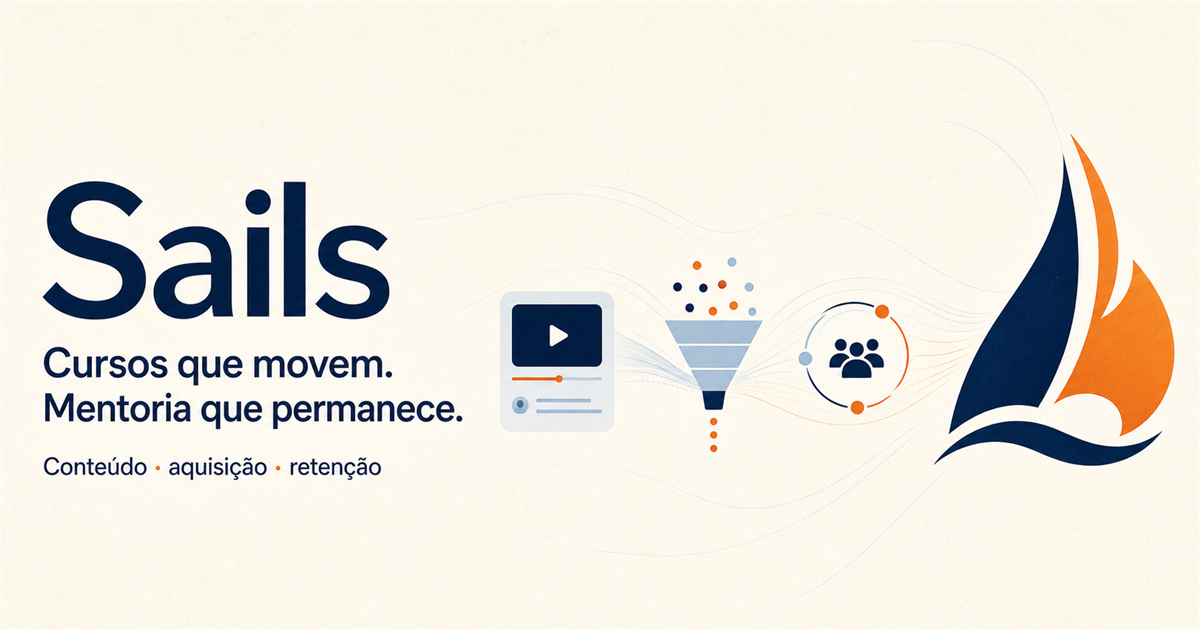
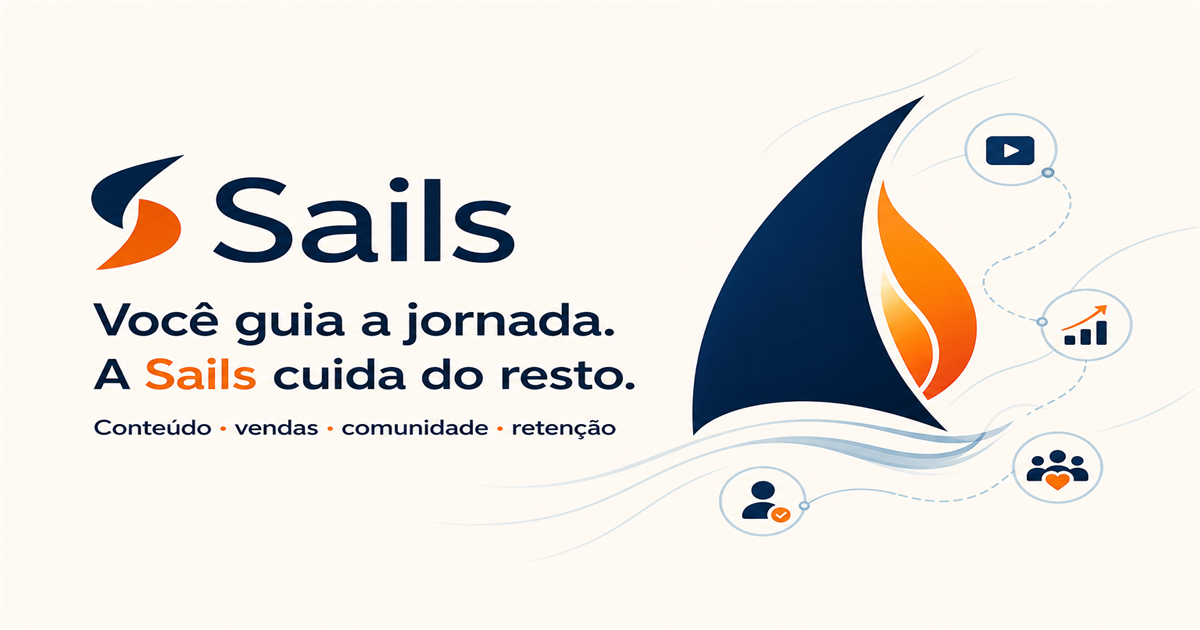
Prepare Sails go-live experience

Changed region(s): [[0.0308, 0.1508, 0.9867, 0.8746], [0.0308, 0.7238, 0.3392, 0.754]]

diff --git a/app/portal/page.tsx b/app/portal/page.tsx
@@ -5,8 +5,9 @@ import Link from "next/link";
 
 type Band = "parada" | "esfriando" | "alta" | "insuficiente";
 type RiskState = "open" | "monitoring" | "none";
-type View = "cockpit" | "students" | "detail" | "courses" | "course-builder" | "marketing";
+type View = "cockpit" | "students" | "detail" | "courses" | "course-builder" | "marketing" | "operations";
 type Theme = "light" | "dark";
+type OperationsMode = "sales" | "automations" | "community" | "golive";
 
 type LeadStage = "Novos" | "Conversa" | "Proposta" | "Fechado";
 type Lead = {
@@ -231,6 +232,7 @@ export default function Home() {
   const [studentPreview, setStudentPreview] = useState(false);
   const [marketingMode, setMarketingMode] = useState<"pipeline" | "leads">("pipeline");
   const [leadQuery, setLeadQuery] = useState("");
+  const [operationsMode, setOperationsMode] = useState<OperationsMode>("sales");
   const dialogRef = useRef<HTMLDivElement>(null);
   const closeRef = useRef<HTMLButtonElement>(null);
 
@@ -332,6 +334,7 @@ export default function Home() {
     setStudentPreview(false);
     setMarketingMode("pipeline");
     setLeadQuery("");
+    setOperationsMode("sales");
     setToast("Demonstração reiniciada.");
   }
 
@@ -378,6 +381,7 @@ export default function Home() {
           <button className={view === "students" || view === "detail" ? "nav-active" : ""} onClick={() => navigate("students")}><span aria-hidden="true">◎</span> Alunos <em>{openCases.length}</em></button>
           <button className={view === "courses" || view === "course-builder" ? "nav-active" : ""} onClick={() => navigate("courses")}><span aria-hidden="true">▷</span> Cursos</button>
           <button className={view === "marketing" ? "nav-active" : ""} onClick={() => navigate("marketing")}><span aria-hidden="true">◇</span> Marketing <em>{leads.filter((lead) => lead.stage === "Novos").length}</em></button>
+          <button className={view === "operations" ? "nav-active" : ""} onClick={() => navigate("operations")}><span aria-hidden="true">▦</span> Operação</button>
         </nav>
         <div className="sidebar-foot">
           <button className="theme-toggle" onClick={() => setTheme(theme === "light" ? "dark" : "light")} aria-label={theme === "light" ? "Ativar modo noturno" : "Ativar modo claro"}><span aria-hidden="true">{theme === "light" ? "☾" : "☀"}</span><span>{theme === "light" ? "Modo noturno" : "Modo claro"}</span></button>
@@ -523,7 +527,7 @@ export default function Home() {
               <section className="foundation-card">
                 <div><span className="section-kicker">Fundação de produto</span><h2>O básico que uma plataforma de cursos precisa ter</h2><p>A Sails mantém retenção como diferencial, mas agora organiza a base que sustenta a experiência.</p></div>
                 <ul>
-                  <li className="done">Vídeos, textos e materiais</li><li className="done">Módulos e aulas ordenáveis</li><li className="done">Quiz e entregas</li><li className="done">Liberação programada</li><li>Certificados</li><li>Comunidade e agenda</li><li>Checkout e assinaturas</li><li>Cupons e afiliados</li>
+                  <li className="done">Vídeos, textos e materiais</li><li className="done">Módulos e aulas ordenáveis</li><li className="done">Quiz e entregas</li><li className="done">Liberação programada</li><li className="done">Certificados</li><li className="done">Comunidade e agenda</li><li className="done">Checkout e assinaturas</li><li className="done">Cupons e afiliados</li>
                 </ul>
               </section>
             </section>
@@ -631,6 +635,62 @@ export default function Home() {
             </section>
           )}
 
+          {view === "operations" && (
+            <section className="page operations-page" aria-labelledby="operations-title">
+              <div className="page-heading operations-heading">
+                <div><p className="eyebrow">Sails · negócio conectado</p><h1 id="operations-title">Operação</h1><p>Venda, automatize a jornada e prepare a escola para crescer.</p></div>
+                <span className="launch-status"><i /> Pronto para piloto</span>
+              </div>
+
+              <div className="operations-tabs" role="tablist" aria-label="Áreas da operação">
+                {([['sales','Vendas'],['automations','Automações'],['community','Comunidade'],['golive','Go-live']] as const).map(([mode, label]) => <button key={mode} role="tab" aria-selected={operationsMode === mode} onClick={() => setOperationsMode(mode)}>{label}{mode === "golive" && <span>6</span>}</button>)}
+              </div>
+
+              {operationsMode === "sales" && <>
+                <div className="revenue-summary">
+                  <article><span>Receita no mês</span><strong>R$ 38.420</strong><small><b>↑ 18%</b> vs. mês anterior</small></article>
+                  <article><span>Receita recorrente</span><strong>R$ 12.870</strong><small>44 assinaturas ativas</small></article>
+                  <article><span>Ticket médio</span><strong>R$ 1.940</strong><small>19 vendas aprovadas</small></article>
+                  <article><span>Pagamentos em risco</span><strong>3</strong><small>R$ 1.287 a recuperar</small></article>
+                </div>
+                <div className="sales-grid">
+                  <section className="operations-card offers-card"><div className="operations-card-head"><div><span className="section-kicker">Produtos e ofertas</span><h2>O que está à venda</h2></div><button className="button primary" onClick={() => setToast("Nova oferta aberta na demonstração.")}>+ Nova oferta</button></div>
+                    <article className="offer-row"><span className="offer-icon">D</span><div><strong>Formação em Dados & IA</strong><small>Pagamento único · Checkout ativo</small></div><span className="offer-price">R$ 2.490</span><span className="published-pill">Ativa</span><button onClick={() => setToast("Editor de checkout aberto na demonstração.")}>Editar →</button></article>
+                    <article className="offer-row"><span className="offer-icon sql">S</span><div><strong>Clube SQL Analytics</strong><small>Assinatura mensal · 44 membros</small></div><span className="offer-price">R$ 297/mês</span><span className="published-pill">Ativa</span><button onClick={() => setToast("Gestão da assinatura aberta na demonstração.")}>Editar →</button></article>
+                    <div className="commerce-tools"><button onClick={() => setToast("Cupons abertos na demonstração.")}><span>%</span><strong>Cupons</strong><small>3 ativos</small></button><button onClick={() => setToast("Order bumps abertos na demonstração.")}><span>+</span><strong>Order bumps</strong><small>2 ofertas</small></button><button onClick={() => setToast("Afiliados abertos na demonstração.")}><span>↗</span><strong>Afiliados</strong><small>12 parceiros</small></button><button onClick={() => setToast("Recuperação de pagamentos aberta.")}><span>↻</span><strong>Recuperação</strong><small>3 pendências</small></button></div>
+                  </section>
+                  <section className="operations-card orders-card"><div className="operations-card-head"><div><span className="section-kicker">Últimas vendas</span><h2>Pedidos</h2></div><button className="text-button" onClick={() => setToast("Todos os pedidos exibidos na demonstração.")}>Ver todos</button></div>
+                    {[['Marina Lopes','Formação em Dados & IA','R$ 2.490','Pix','Aprovado'],['Bruno Reis','Clube SQL Analytics','R$ 297','Cartão','Aprovado'],['Camila Alves','Formação em Dados & IA','R$ 2.490','Cartão','Em análise'],['Igor Nunes','Clube SQL Analytics','R$ 297','Cartão','Falhou']].map((order) => <article className="order-row" key={order[0]}><span className="avatar">{order[0].split(' ').map((part) => part[0]).join('')}</span><div><strong>{order[0]}</strong><small>{order[1]} · {order[3]}</small></div><strong>{order[2]}</strong><span className={`order-status ${order[4] === 'Aprovado' ? 'success' : order[4] === 'Falhou' ? 'danger' : 'pending'}`}>{order[4]}</span></article>)}
+                  </section>
+                </div>
+              </>}
+
+              {operationsMode === "automations" && <div className="automation-layout">
+                <section className="operations-card"><div className="operations-card-head"><div><span className="section-kicker">Jornadas automáticas</span><h2>Automações ativas</h2></div><button className="button primary" onClick={() => setToast("Nova automação aberta na demonstração.")}>+ Nova automação</button></div>
+                  {[['Lead entrou pelo material gratuito','Nutrição de 5 e-mails','1.248 contatos','Ativa'],['Pagamento aprovado','Acesso + boas-vindas','19 este mês','Ativa'],['7 dias sem atividade','Check-in de retomada','8 alunos','Ativa'],['Curso concluído','Certificado + próxima oferta','12 este mês','Rascunho']].map((flow, index) => <article className="automation-row" key={flow[0]}><span className="automation-number">0{index + 1}</span><div><strong>{flow[0]}</strong><small>Então: {flow[1]}</small></div><span>{flow[2]}</span><button className={flow[3] === 'Ativa' ? 'automation-state active' : 'automation-state'} onClick={() => setToast(`${flow[0]} aberta para edição.`)}>{flow[3]}</button></article>)}
+                </section>
+                <aside className="operations-card email-card"><span className="section-kicker">E-mail da semana</span><h2>Boas-vindas que continuam</h2><div className="email-preview"><small>ASSUNTO</small><strong>Seu primeiro passo na Sails</strong><p>Oi, Marina. Sua jornada começa com uma aula curta e um objetivo simples...</p><button onClick={() => setToast("Prévia da sequência aberta.")}>Ver sequência →</button></div><div className="email-metrics"><span><strong>48%</strong><small>abertura</small></span><span><strong>12%</strong><small>cliques</small></span><span><strong>2</strong><small>respostas</small></span></div></aside>
+              </div>}
+
+              {operationsMode === "community" && <div className="community-layout">
+                <section className="operations-card community-feed"><div className="operations-card-head"><div><span className="section-kicker">Comunidade Dados & IA</span><h2>Conexão também ensina</h2></div><button className="button primary" onClick={() => setToast("Nova publicação aberta na demonstração.")}>+ Publicar</button></div>
+                  <article className="community-post"><span className="avatar">D</span><div><strong>Diego · Mentor</strong><small>há 2 horas · Avisos</small><h3>Qual foi seu principal avanço esta semana?</h3><p>Compartilhe uma pequena vitória ou um bloqueio. Vamos usar as respostas no encontro de quinta.</p><footer><button onClick={() => setToast("18 reações nesta publicação.")}>♡ 18</button><button onClick={() => setToast("7 comentários exibidos.")}>◌ 7 comentários</button></footer></div></article>
+                  <article className="community-post"><span className="avatar">ML</span><div><strong>Marina Lopes</strong><small>ontem · Projetos</small><h3>Meu primeiro dashboard já está no ar 🎉</h3><p>O feedback do grupo no encontro destravou a etapa de modelagem.</p><footer><button onClick={() => setToast("24 reações nesta publicação.")}>♡ 24</button><button onClick={() => setToast("11 comentários exibidos.")}>◌ 11 comentários</button></footer></div></article>
+                </section>
+                <aside className="community-side"><section className="operations-card event-card"><span className="section-kicker">Próximo encontro</span><time>23 JUL · 19H</time><h2>Clínica de projetos</h2><p>Ao vivo · 48 confirmados</p><button className="button wide" onClick={() => setToast("Gestão do encontro aberta.")}>Gerenciar encontro</button></section><section className="operations-card community-stats"><span className="section-kicker">Pulso da comunidade</span><div><strong>76%</strong><span>membros ativos</span></div><div><strong>84</strong><span>interações na semana</span></div><div><strong>2h</strong><span>tempo médio de resposta</span></div></section></aside>
+              </div>}
+
+              {operationsMode === "golive" && <div className="golive-layout">
+                <section className="operations-card readiness-card"><div className="readiness-head"><div><span className="section-kicker">Checklist de lançamento</span><h2>Pronta para piloto. Ainda não para vendas reais.</h2><p>A experiência está completa; as conexões abaixo transformam a demonstração em operação.</p></div><div className="readiness-ring"><strong>8/14</strong><span>itens</span></div></div>
+                  <div className="checklist-grid">
+                    {[['✓','Marca, landing e domínio','Pronto'],['✓','Curso, vídeo e progresso','Pronto'],['✓','Funil, leads e retenção','Pronto'],['✓','Ofertas e jornadas desenhadas','Pronto'],['1','Login seguro e permissões','Conectar'],['2','Banco de dados e backups','Conectar'],['3','Vídeo protegido e legendas','Conectar'],['4','Checkout, Pix e recorrência','Conectar'],['5','E-mail transacional e marketing','Conectar'],['6','LGPD, termos e atendimento','Conectar']].map((item) => <article className={item[2] === 'Pronto' ? 'ready' : ''} key={item[1]}><span>{item[0]}</span><div><strong>{item[1]}</strong><small>{item[2]}</small></div></article>)}
+                  </div>
+                </section>
+                <aside className="operations-card launch-plan"><span className="section-kicker">Ordem recomendada</span><h2>Do piloto ao go-live</h2><ol><li><span>01</span><p><strong>Infraestrutura</strong><small>Autenticação, dados, vídeo e backups.</small></p></li><li><span>02</span><p><strong>Receita</strong><small>Gateway, checkout, fiscal e recuperação.</small></p></li><li><span>03</span><p><strong>Confiança</strong><small>LGPD, suporte, monitoramento e contingência.</small></p></li></ol><button className="button primary wide" onClick={() => setToast("Plano de go-live priorizado na demonstração.")}>Priorizar conexões</button></aside>
+              </div>}
+            </section>
+          )}
+
           {view === "detail" && selected && (
             <section className="page" aria-labelledby="student-title">
               <button className="back-link" onClick={() => navigate("students")}><span aria-hidden="true">←</span> Voltar para alunos</button>
@@ -661,6 +721,7 @@ export default function Home() {
           <button className={view === "students" || view === "detail" ? "nav-active" : ""} onClick={() => navigate("students")}><span>◎</span>Alunos</button>
           <button className={view === "courses" || view === "course-builder" ? "nav-active" : ""} onClick={() => navigate("courses")}><span>▷</span>Cursos</button>
           <button className={view === "marketing" ? "nav-active" : ""} onClick={() => navigate("marketing")}><span>◇</span>Marketing</button>
+          <button className={view === "operations" ? "nav-active" : ""} onClick={() => navigate("operations")}><span>▦</span>Operação</button>
         </nav>
       </div>
 

diff --git a/app/globals.css b/app/globals.css
@@ -409,6 +409,18 @@ main { min-height: calc(100vh - 35px); }
 .marketing-insights p { margin: 0; color: var(--muted); font-size: 9px; line-height: 1.55; }
 .marketing-insights .button { margin-top: 12px; padding-inline: 0; color: var(--ember-soft); }
 
+/* Connected operations */
+.operations-heading { margin-bottom: 22px; }
+.launch-status { display:flex;align-items:center;gap:8px;padding:9px 12px;border:1px solid rgba(50,145,104,.24);border-radius:99px;background:rgba(50,145,104,.08);color:var(--success);font-size:9px;font-weight:750 }.launch-status i{width:7px;height:7px;border-radius:50%;background:var(--success);box-shadow:0 0 0 4px rgba(50,145,104,.1)}
+.operations-tabs{display:flex;gap:4px;margin-bottom:18px;padding:4px;border:1px solid var(--line);border-radius:11px;background:var(--subtle-bg);width:max-content}.operations-tabs button{min-height:38px;display:flex;align-items:center;gap:7px;padding:0 18px;border-radius:8px;background:transparent;color:var(--muted);font-size:9px;font-weight:750;cursor:pointer}.operations-tabs button[aria-selected="true"]{background:var(--card);color:var(--ivory);box-shadow:var(--shadow)}.operations-tabs button span{min-width:18px;height:18px;display:grid;place-items:center;border-radius:99px;background:rgba(255,122,61,.12);color:var(--ember-soft);font-size:8px}
+.revenue-summary{display:grid;grid-template-columns:repeat(4,1fr);margin-bottom:16px;border:1px solid var(--line);border-radius:14px;background:var(--card);box-shadow:var(--shadow);overflow:hidden}.revenue-summary article{display:grid;gap:6px;padding:19px 20px;border-right:1px solid var(--line)}.revenue-summary article:last-child{border-right:0}.revenue-summary span,.revenue-summary small{color:var(--muted);font-size:9px}.revenue-summary strong{font-family:var(--font-serif);font-size:23px;font-weight:500}.revenue-summary small b{color:var(--success)}
+.sales-grid,.automation-layout,.community-layout,.golive-layout{display:grid;grid-template-columns:minmax(0,1.4fr) minmax(300px,.75fr);gap:14px}.operations-card{border:1px solid var(--line);border-radius:14px;background:var(--card);box-shadow:var(--shadow);overflow:hidden}.operations-card-head{min-height:76px;display:flex;align-items:center;justify-content:space-between;gap:16px;padding:17px 19px;border-bottom:1px solid var(--line)}.operations-card h2,.operations-card-head h2{margin:5px 0 0;font-family:var(--font-serif);font-size:20px;font-weight:500}.operations-card-head .button{min-height:35px}.text-button{background:transparent;color:var(--ember-soft);font-size:9px;font-weight:750;cursor:pointer}
+.offer-row{min-height:73px;display:grid;grid-template-columns:38px minmax(150px,1fr) auto auto auto;gap:12px;align-items:center;padding:12px 18px;border-bottom:1px solid var(--line)}.offer-icon{width:36px;height:36px;display:grid;place-items:center;border-radius:9px;background:linear-gradient(135deg,#ff7a3d,#ff9f68);color:#2d150d;font-family:var(--font-serif);font-weight:700}.offer-icon.sql{background:#1d2942;color:#f3eee5}.offer-row>div{display:grid;gap:4px}.offer-row small{color:var(--muted);font-size:8px}.offer-row>button{background:transparent;color:var(--ember-soft);font-size:9px;font-weight:750;cursor:pointer}.offer-price{font-family:var(--font-serif);font-size:14px;font-weight:600}.commerce-tools{display:grid;grid-template-columns:repeat(4,1fr);gap:8px;padding:15px}.commerce-tools button{min-height:90px;display:grid;place-items:start;align-content:center;gap:4px;padding:12px;border:1px solid var(--line);border-radius:10px;background:var(--subtle-bg);color:var(--ivory);text-align:left;cursor:pointer}.commerce-tools button:hover{border-color:rgba(255,122,61,.45)}.commerce-tools button>span{color:var(--ember-soft);font-size:15px}.commerce-tools strong{font-size:9px}.commerce-tools small{color:var(--muted);font-size:8px}
+.orders-card{align-self:start}.order-row{min-height:69px;display:grid;grid-template-columns:32px minmax(0,1fr) auto auto;gap:10px;align-items:center;padding:11px 16px;border-bottom:1px solid var(--line)}.order-row:last-child{border-bottom:0}.order-row>div{display:grid;gap:4px}.order-row strong{font-size:9px}.order-row small{color:var(--muted);font-size:8px}.order-status{padding:5px 7px;border-radius:99px;font-size:7px;font-weight:750}.order-status.success{background:rgba(50,145,104,.1);color:var(--success)}.order-status.danger{background:rgba(205,72,62,.1);color:var(--danger)}.order-status.pending{background:rgba(215,150,44,.12);color:#b77d20}
+.automation-row{min-height:72px;display:grid;grid-template-columns:38px minmax(180px,1fr) auto auto;gap:13px;align-items:center;padding:12px 18px;border-bottom:1px solid var(--line)}.automation-number{font-family:var(--font-serif);color:var(--ember-soft);font-size:18px}.automation-row>div{display:grid;gap:5px}.automation-row strong{font-size:9px}.automation-row small,.automation-row>span:nth-child(3){color:var(--muted);font-size:8px}.automation-state{padding:6px 9px;border-radius:99px;background:var(--subtle-bg);color:var(--muted);font-size:7px;font-weight:750;cursor:pointer}.automation-state.active{background:rgba(50,145,104,.1);color:var(--success)}.email-card{padding:20px;align-self:start}.email-card>h2{margin-bottom:15px}.email-preview{padding:16px;border:1px solid var(--line);border-radius:10px;background:var(--subtle-bg)}.email-preview small{color:var(--muted);font-size:7px;letter-spacing:.08em}.email-preview strong{display:block;margin-top:7px;font-family:var(--font-serif);font-size:16px}.email-preview p{color:var(--muted);font-size:9px;line-height:1.55}.email-preview button{padding:0;background:transparent;color:var(--ember-soft);font-size:8px;font-weight:750;cursor:pointer}.email-metrics{display:grid;grid-template-columns:repeat(3,1fr);margin-top:14px}.email-metrics span{display:grid;gap:3px;border-right:1px solid var(--line);text-align:center}.email-metrics span:last-child{border-right:0}.email-metrics strong{font-family:var(--font-serif);font-size:18px}.email-metrics small{color:var(--muted);font-size:7px}
+.community-post{display:grid;grid-template-columns:36px 1fr;gap:12px;padding:18px;border-bottom:1px solid var(--line)}.community-post>div{min-width:0}.community-post strong{font-size:9px}.community-post small{display:block;margin-top:4px;color:var(--muted);font-size:8px}.community-post h3{margin:13px 0 7px;font-family:var(--font-serif);font-size:17px;font-weight:500}.community-post p{margin:0;color:var(--muted);font-size:9px;line-height:1.55}.community-post footer{display:flex;gap:15px;margin-top:13px}.community-post footer button{padding:0;background:transparent;color:var(--muted);font-size:8px;cursor:pointer}.community-side{display:grid;gap:14px;align-content:start}.event-card,.community-stats{padding:20px}.event-card time{display:block;margin-top:17px;color:var(--ember-soft);font-size:9px;font-weight:800}.event-card p{color:var(--muted);font-size:9px}.event-card .button{margin-top:10px}.community-stats>div{display:flex;align-items:baseline;justify-content:space-between;padding:13px 0;border-bottom:1px solid var(--line)}.community-stats>div:last-child{border-bottom:0}.community-stats strong{font-family:var(--font-serif);font-size:20px}.community-stats span{color:var(--muted);font-size:8px}
+.readiness-card{padding:22px}.readiness-head{display:grid;grid-template-columns:1fr auto;gap:20px;align-items:center;padding-bottom:20px}.readiness-head h2{font-size:24px}.readiness-head p{max-width:520px;margin:8px 0 0;color:var(--muted);font-size:9px;line-height:1.55}.readiness-ring{width:82px;height:82px;display:grid;place-items:center;align-content:center;border:7px solid rgba(255,122,61,.16);border-top-color:var(--ember);border-radius:50%}.readiness-ring strong{font-family:var(--font-serif);font-size:20px}.readiness-ring span{color:var(--muted);font-size:7px}.checklist-grid{display:grid;grid-template-columns:1fr 1fr;gap:8px}.checklist-grid article{min-height:57px;display:flex;align-items:center;gap:10px;padding:10px;border:1px solid var(--line);border-radius:9px}.checklist-grid article>span{width:28px;height:28px;display:grid;place-items:center;border-radius:50%;background:rgba(255,122,61,.1);color:var(--ember-soft);font-size:9px;font-weight:800}.checklist-grid article.ready>span{background:rgba(50,145,104,.1);color:var(--success)}.checklist-grid article div{display:grid;gap:4px}.checklist-grid strong{font-size:9px}.checklist-grid small{color:var(--muted);font-size:7px}.checklist-grid article.ready small{color:var(--success)}.launch-plan{padding:20px;align-self:start}.launch-plan ol{margin:17px 0 20px;padding:0;list-style:none}.launch-plan li{display:grid;grid-template-columns:34px 1fr;gap:10px;padding:13px 0;border-bottom:1px solid var(--line)}.launch-plan li>span{font-family:var(--font-serif);color:var(--ember-soft);font-size:15px}.launch-plan p{display:grid;gap:4px;margin:0}.launch-plan strong{font-size:9px}.launch-plan small{color:var(--muted);font-size:8px;line-height:1.4}
+
 /* Public landing page */
 .landing-page { --lp-ink:#172133; --lp-muted:#697386; --lp-ember:#ff6f32; --lp-paper:#fbfaf7; --lp-line:rgba(23,33,51,.11); min-height:100vh; overflow:hidden; color:var(--lp-ink); background:var(--lp-paper); font-family:var(--font-sans); }
 .landing-page * { box-sizing:border-box; }
@@ -489,6 +501,7 @@ main { min-height: calc(100vh - 35px); }
   .builder-shell { grid-template-columns: 230px minmax(400px, 1fr); overflow-x: auto; }
   .lesson-side { display: none; }
   .funnel-board { grid-template-columns: repeat(4, 250px); }
+  .sales-grid,.automation-layout,.community-layout,.golive-layout{grid-template-columns:1fr}.orders-card,.email-card,.community-side,.launch-plan{width:100%}
   .lp-hero { grid-template-columns:1fr 1fr; gap:20px; }
   .lp-hero h1 { font-size:58px; }
   .lp-floating-card.lead { right:-5px; }
@@ -503,7 +516,7 @@ main { min-height: calc(100vh - 35px); }
   .mobile-header { height: 58px; display: flex; align-items: center; justify-content: space-between; padding: 0 16px; border-bottom: 1px solid var(--line); background: var(--sidebar-bg); position: sticky; top: 48px; z-index: 20; backdrop-filter: blur(12px); }
   .mobile-header .brand > span:last-child { font-size: 22px; }
   .mobile-theme { width: 42px; height: 42px; border: 1px solid var(--line); border-radius: 50%; background: var(--subtle-bg); color: var(--ember-soft); cursor: pointer; font-size: 17px; }
-  .mobile-nav { position: fixed; inset: auto 0 0; z-index: 40; height: 65px; display: grid; grid-template-columns: repeat(4, 1fr); border-top: 1px solid var(--line); background: var(--sidebar-bg); backdrop-filter: blur(12px); }
+  .mobile-nav { position: fixed; inset: auto 0 0; z-index: 40; height: 65px; display: grid; grid-template-columns: repeat(5, 1fr); border-top: 1px solid var(--line); background: var(--sidebar-bg); backdrop-filter: blur(12px); }
   .mobile-nav button { display: grid; place-items: center; align-content: center; gap: 3px; background: transparent; color: var(--muted); font-size: 9px; }
   .mobile-nav button span { font-size: 17px; }
   .mobile-nav button.nav-active { color: var(--ember-soft); }
@@ -557,6 +570,7 @@ main { min-height: calc(100vh - 35px); }
   .lead-mobile-list article>div { display:flex;align-items:center;gap:9px; }
   .lead-mobile-list article>div>span:last-child { display:grid; }
   .lead-mobile-list strong { font-size:10px; }.lead-mobile-list small{color:var(--muted);font-size:8px;margin-top:3px}.lead-mobile-list .stage-pill{margin:10px 0}.lead-mobile-list p{margin:0;color:var(--muted);font-size:9px}.lead-mobile-list footer{display:flex;justify-content:space-between;align-items:center;margin-top:10px;padding-top:10px;border-top:1px solid var(--line)}.lead-mobile-list footer button{background:transparent;color:var(--ember-soft);font-size:8px}
+  .operations-tabs{width:100%;overflow-x:auto}.operations-tabs button{flex:1;justify-content:center;padding-inline:12px}.revenue-summary{grid-template-columns:1fr 1fr}.revenue-summary article:nth-child(2){border-right:0}.revenue-summary article:nth-child(-n+2){border-bottom:1px solid var(--line)}.offer-row{grid-template-columns:38px 1fr auto}.offer-row .offer-price{grid-column:2}.offer-row .published-pill{display:none}.offer-row>button{grid-column:3;grid-row:1/3}.commerce-tools{grid-template-columns:1fr 1fr}.automation-row{grid-template-columns:35px 1fr auto}.automation-row>span:nth-child(3){display:none}.checklist-grid{grid-template-columns:1fr}
   .lp-header { width:calc(100% - 32px);height:70px; }.lp-header nav,.lp-login{display:none}.lp-header-actions{margin-left:auto}.lp-header .lp-cta.small{min-height:38px}.lp-hero{width:calc(100% - 32px);grid-template-columns:1fr;padding:55px 0 80px}.lp-hero-copy{text-align:center}.lp-hero h1{font-size:56px}.lp-hero-copy>p{margin-inline:auto}.lp-hero-actions,.lp-trust{justify-content:center}.lp-product-visual{width:min(650px,100%);margin:0 auto;padding-inline:0}.lp-floating-card.lead{right:-4px}.lp-proof div{gap:12px;flex-wrap:wrap;justify-content:center}.lp-proof span{font-size:14px}.lp-platform,.lp-resources{width:calc(100% - 32px);padding:85px 0}.lp-feature-grid{grid-template-columns:1fr}.lp-feature{min-height:390px}.lp-difference{grid-template-columns:1fr;gap:25px;padding:80px 24px}.lp-symbol-stage{min-height:380px}.lp-difference-copy{text-align:center}.lp-difference-copy>p{margin-inline:auto}.lp-difference-copy li{text-align:left}.resource-grid{grid-template-columns:1fr 1fr}.resource-grid article:nth-child(3n){border-right:1px solid var(--lp-line)}.resource-grid article:nth-child(2n){border-right:0}.resource-grid article:nth-child(n+4){border-bottom:1px solid var(--lp-line)}.resource-grid article:nth-child(n+5){border-bottom:0}.lp-footer{width:calc(100% - 32px)}
   .toast { left: 50%; bottom: 79px; }
 }
@@ -587,6 +601,7 @@ main { min-height: calc(100vh - 35px); }
   .marketing-tabs button { flex: 1; }
   .filter-button { width: 100%; }
   .funnel-board { grid-template-columns: repeat(4, 82vw); }
+  .operations-heading{gap:14px}.launch-status{font-size:8px}.operations-tabs button{min-width:95px}.revenue-summary article{padding:15px}.revenue-summary strong{font-size:19px}.offer-row{padding-inline:13px}.commerce-tools{padding:11px}.order-row{grid-template-columns:32px 1fr auto}.order-row>strong{grid-column:2}.order-status{grid-column:3;grid-row:1/3}.automation-row{padding-inline:13px}.readiness-card{padding:16px}.readiness-head{grid-template-columns:1fr}.readiness-ring{width:70px;height:70px}.community-post{padding:15px}
   .lp-header .lp-cta.small { padding-inline:12px;font-size:9px }.lp-brand>span:last-child{font-size:23px}.lp-hero{padding-top:35px}.lp-hero h1{font-size:44px}.lp-hero-copy>p{font-size:13px}.lp-hero-actions{flex-direction:column;gap:17px}.lp-trust{gap:10px}.lp-product-visual{margin-top:10px}.lp-window-body{grid-template-columns:75px 1fr;min-height:330px}.lp-window-body aside{padding-inline:6px}.mini-brand strong{display:none}.mini-nav{padding:7px 4px}.mini-content{padding:24px 15px}.mini-content h2{font-size:22px}.mini-alert{grid-template-columns:27px 1fr}.mini-alert em{display:none}.lp-floating-card{display:none}.lp-proof{padding:25px 16px}.lp-proof div i{display:none}.lp-proof div{gap:8px 18px}.lp-section-head h2{font-size:38px}.lp-feature{padding:22px}.lp-symbol-stage{min-height:300px}.lp-symbol-stage>.lp-mark svg{width:105px;height:auto}.lp-glow{width:270px;height:270px}.symbol-note{font-size:15px}.lp-difference-copy h2{font-size:37px}.resource-grid{grid-template-columns:1fr}.resource-grid article,.resource-grid article:nth-child(3n),.resource-grid article:nth-child(n+4),.resource-grid article:nth-child(n+5){border-right:0;border-bottom:1px solid var(--lp-line)}.resource-grid article:last-child{border-bottom:0}.lp-final h2{font-size:40px}.lp-footer{padding:25px 0;flex-direction:column;text-align:center}.lp-footer p{margin:0}
 }
 

diff --git a/app/layout.tsx b/app/layout.tsx
@@ -10,20 +10,20 @@ export async function generateMetadata(): Promise<Metadata> {
 
   return {
     metadataBase,
-    title: "Sails — A mentoria nunca apaga",
-    description: "Cursos que movem. Mentoria que permanece. Conteúdo, aquisição e retenção em uma só plataforma.",
+    title: "Sails — Você guia a jornada",
+    description: "Você guia a jornada. A Sails cuida do resto: conteúdo, vendas, comunidade e retenção em uma só plataforma.",
     icons: { icon: "/favicon.svg", shortcut: "/favicon.svg" },
     robots: { index: false, follow: false },
     openGraph: {
-      title: "Sails — A mentoria nunca apaga",
-      description: "Cursos que movem. Mentoria que permanece. Conteúdo, aquisição e retenção em uma só plataforma.",
+      title: "Sails — Você guia a jornada",
+      description: "Você guia a jornada. A Sails cuida do resto: conteúdo, vendas, comunidade e retenção em uma só plataforma.",
       type: "website",
       images: [{ url: "/og.png", width: 1200, height: 630, alt: "Sails — A mentoria que avisa antes do aluno desistir" }],
     },
     twitter: {
       card: "summary_large_image",
-      title: "Sails — A mentoria nunca apaga",
-      description: "Cursos que movem. Mentoria que permanece. Conteúdo, aquisição e retenção em uma só plataforma.",
+      title: "Sails — Você guia a jornada",
+      description: "Você guia a jornada. A Sails cuida do resto: conteúdo, vendas, comunidade e retenção em uma só plataforma.",
       images: ["/og.png"],
     },
   };

diff --git a/app/page.tsx b/app/page.tsx
@@ -21,9 +21,9 @@ export default function LandingPage() {
       <main>
         <section className="lp-hero" id="inicio">
           <div className="lp-hero-copy">
-            <span className="lp-pill"><i /> O sistema operacional da sua mentoria</span>
-            <h1>Cursos que movem.<br /><em>Mentoria que permanece.</em></h1>
-            <p>Crie sua experiência de aprendizagem, organize a aquisição de novos alunos e descubra quem precisa de você antes da desistência.</p>
+            <span className="lp-pill"><i /> Conteúdo · aquisição · retenção</span>
+            <h1>Você guia a jornada.<br /><em>A Sails cuida do resto.</em></h1>
+            <p>Da primeira venda à última aula, organize sua escola, acompanhe cada aluno e mantenha o negócio em movimento.</p>
             <div className="lp-hero-actions"><a className="lp-cta" href="/portal">Explorar a Sails <span>→</span></a><a className="lp-text-link" href="#plataforma">Ver como funciona <span>↓</span></a></div>
             <div className="lp-trust"><span><b>✓</b> Conteúdo e vídeo</span><span><b>✓</b> Funil e leads</span><span><b>✓</b> Retenção explicável</span></div>
           </div>
@@ -59,13 +59,13 @@ export default function LandingPage() {
 
         <section className="lp-resources" id="recursos">
           <div className="lp-section-head compact"><span className="lp-overline">Tudo que sustenta a operação</span><h2>Menos ferramentas.<br /><em>Mais continuidade.</em></h2></div>
-          <div className="resource-grid"><article><span>▷</span><h3>Cursos & trilhas</h3><p>Vídeos, módulos, quizzes, materiais e liberação programada.</p></article><article><span>◎</span><h3>Alunos & progresso</h3><p>Perfis, histórico, entregas, ritmo e contexto completo.</p></article><article><span>◇</span><h3>Funil & leads</h3><p>Pipeline, origens, propostas e próxima melhor ação.</p></article><article><span>◉</span><h3>Retenção</h3><p>Alertas explicáveis, check-ins e acompanhamento da retomada.</p></article><article><span>◌</span><h3>Comunidade</h3><p>Discussões, agenda e encontros próximos do conteúdo.</p></article><article><span>↗</span><h3>Insights</h3><p>Conclusão, gargalos, conversão e saúde da turma.</p></article></div>
+          <div className="resource-grid"><article><span>▷</span><h3>Cursos & trilhas</h3><p>Vídeos, módulos, quizzes, materiais e liberação programada.</p></article><article><span>◎</span><h3>Alunos & progresso</h3><p>Perfis, histórico, entregas, ritmo e contexto completo.</p></article><article><span>◇</span><h3>Funil & leads</h3><p>Pipeline, origens, propostas e próxima melhor ação.</p></article><article><span>◉</span><h3>Retenção</h3><p>Alertas explicáveis, check-ins e acompanhamento da retomada.</p></article><article><span>◌</span><h3>Comunidade</h3><p>Discussões, agenda e encontros próximos do conteúdo.</p></article><article><span>↗</span><h3>Vendas & automações</h3><p>Checkout, assinaturas, cupons, afiliados e jornadas de e-mail.</p></article></div>
         </section>
 
-        <section className="lp-final"><SailsMark size={46} /><span className="lp-overline">A mentoria nunca apaga</span><h2>Dê vento ao seu negócio.<br />Mantenha cada aluno em movimento.</h2><p>Conheça a experiência que une conteúdo, aquisição e retenção.</p><a className="lp-cta light" href="/portal">Entrar no portal Sails <span>→</span></a></section>
+        <section className="lp-final"><SailsMark size={46} /><span className="lp-overline">A mentoria nunca apaga</span><h2>Você guia a jornada.<br />A Sails cuida do resto.</h2><p>Conteúdo, vendas, comunidade e retenção navegando juntos.</p><a className="lp-cta light" href="/portal">Entrar no portal Sails <span>→</span></a></section>
       </main>
 
-      <footer className="lp-footer"><a className="lp-brand" href="#inicio"><SailsMark size={22} /><span>Sails</span></a><p>Cursos que movem. Mentoria que permanece.</p><a href="/portal">Acessar portal →</a></footer>
+      <footer className="lp-footer"><a className="lp-brand" href="#inicio"><SailsMark size={22} /><span>Sails</span></a><p>Você guia a jornada. A Sails cuida do resto.</p><a href="/portal">Acessar portal →</a></footer>
     </div>
   );
 }